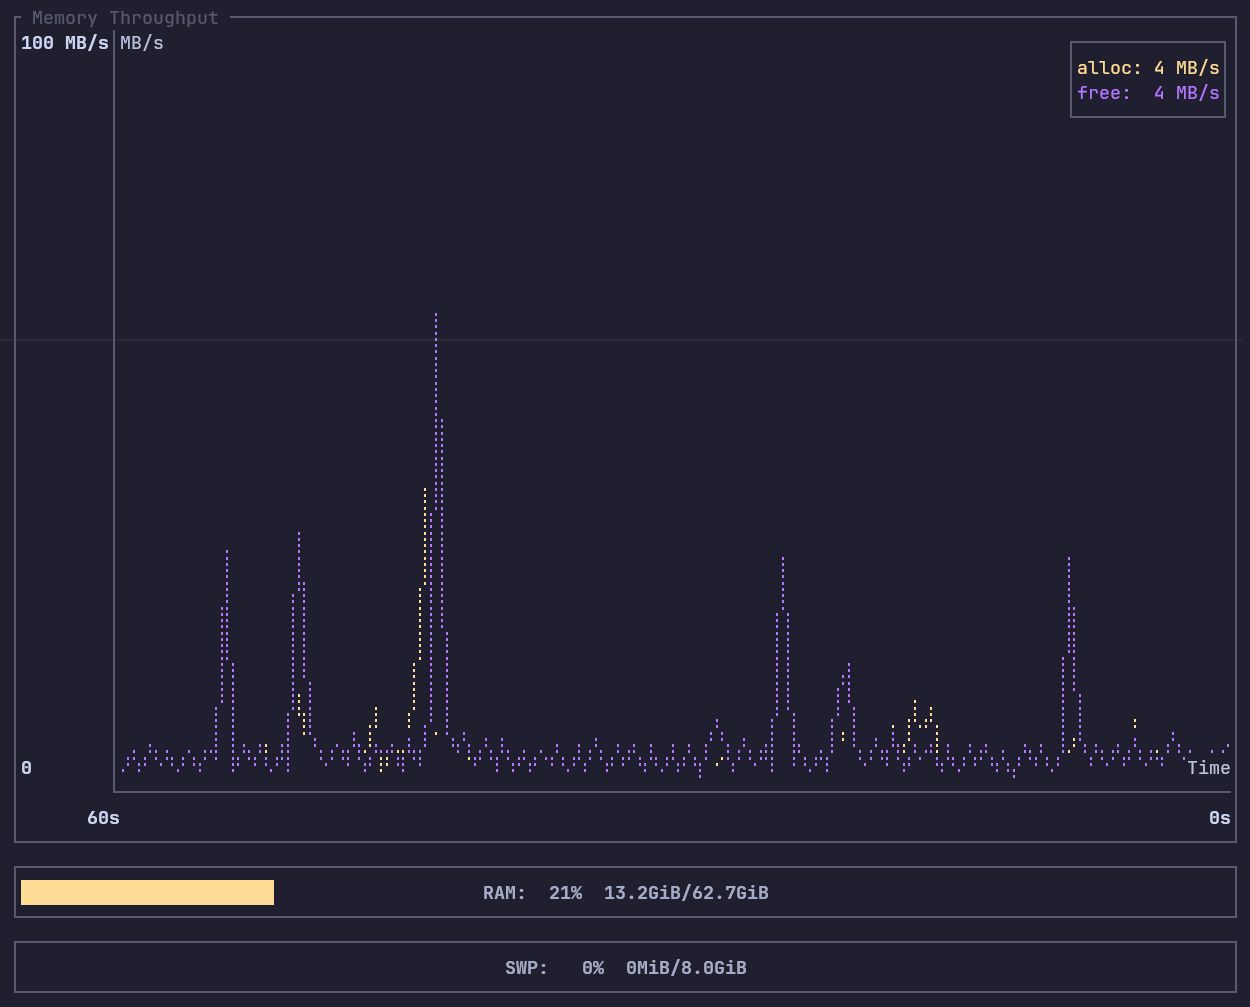
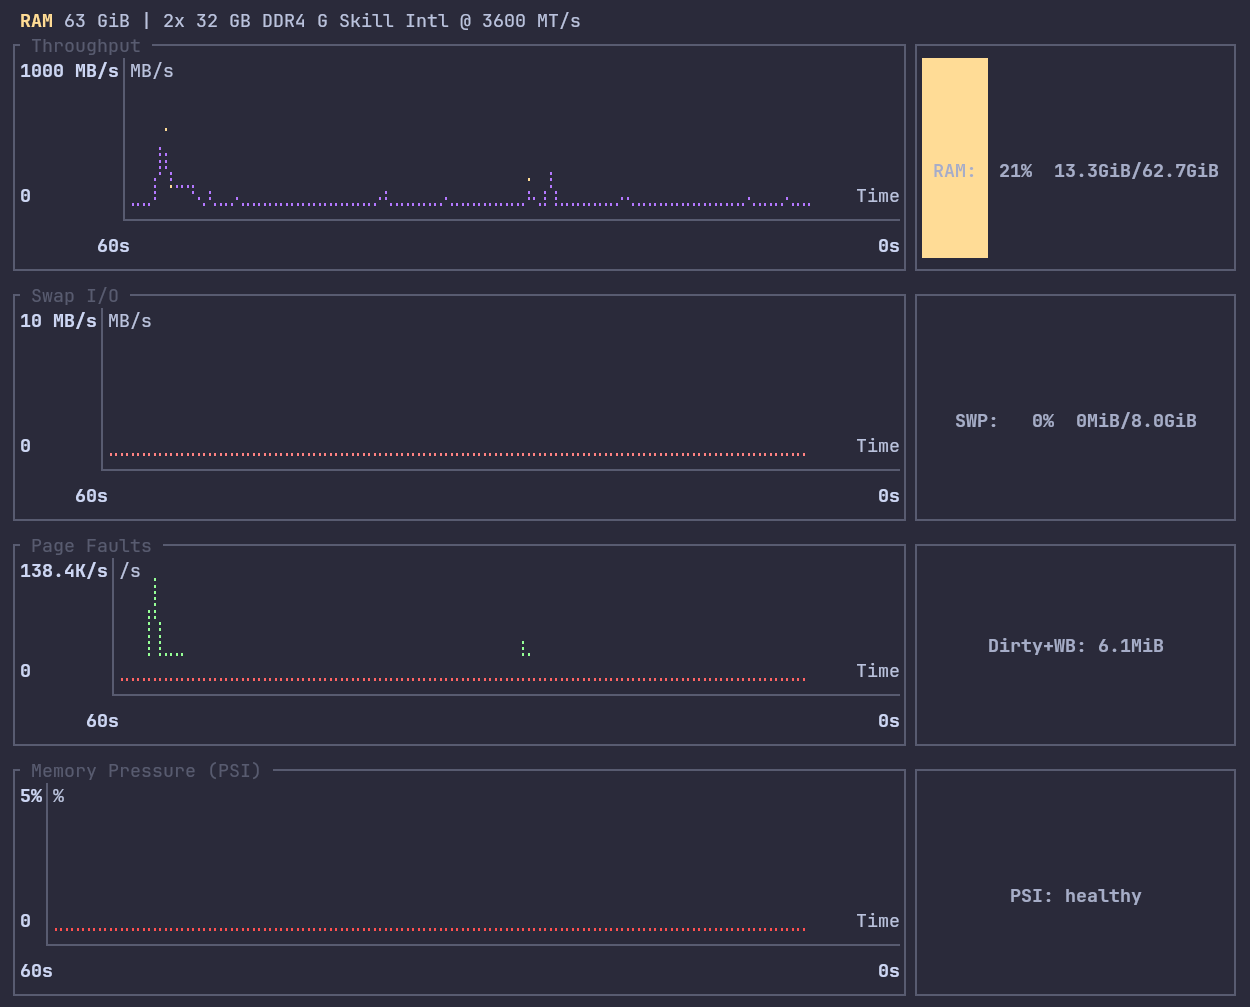
Update README with security notice for sudo usage and new screenshot
Covers supply chain risk, privilege scope, audit suggestions, and
a manual alternative to avoid sudo entirely. Expanded disclaimer
to explicitly cover elevated privilege scenarios.

diff --git a/README.md b/README.md
@@ -2,13 +2,17 @@
 
 Real-time RAM and swap monitor for Linux with terminal charts.
 
-Reads `/proc/meminfo` and `/proc/vmstat` to display live memory throughput (page alloc/free rates) and usage gauges in the terminal using [ratatui](https://github.com/ratatui/ratatui).
+Reads `/proc/meminfo`, `/proc/vmstat`, and `/proc/pressure/memory` to display live memory metrics in the terminal using [ratatui](https://github.com/ratatui/ratatui).
 
 ![ram screenshot](screenshot.png)
 
 ## Features
 
-- Memory throughput chart (alloc/free MB/s) with auto-scaled Y-axis
+- **Throughput**: page alloc/free rates (MB/s) with auto-scaled Y-axis
+- **Swap I/O**: swap in/out rates (MB/s)
+- **Page Faults**: minor/major fault rates with dirty/writeback gauge
+- **Memory Pressure (PSI)**: kernel stall percentages with health summary
+- **Hardware header**: DIMM make, model, type, and speed
 - RAM and swap usage gauge bars with used/total labels
 - Configurable refresh rate and scrollback window
 - `q`, `Esc`, or `Ctrl+C` to quit
@@ -33,9 +37,36 @@ ram -r 1000          # 1s refresh
 ram -s 120           # 2 min scrollback (default 60s)
 ```
 
+### Hardware info (optional)
+
+To display DIMM details (manufacturer, type, speed) in the header, run once:
+
+```
+sudo ram --refresh-hardware
+```
+
+This caches the output of `dmidecode` to `~/.cache/ram/hardware.txt`. Run it again if you change your memory sticks. Normal usage (`ram` without sudo) reads the cache and never needs elevated privileges.
+
+## Security notice: running with sudo
+
+`--refresh-hardware` is the **only** reason to run this tool with sudo. When you do, be aware:
+
+- **The entire binary runs as root.** There is no privilege separation — the `dmidecode` call, all Rust code, and every transitive dependency execute with full root access.
+- **Supply chain risk.** This project depends on third-party crates (ratatui, crossterm, clap, dirs, anyhow). A compromised dependency update could execute arbitrary code as root on your machine. This is not a theoretical risk — supply chain attacks on package registries (npm, PyPI, crates.io) are [increasingly common](https://blog.phylum.io/the-state-of-software-supply-chain-security/).
+- **You should audit what you run.** Before running `sudo ram --refresh-hardware`, consider:
+  - Review `Cargo.lock` to verify dependency versions
+  - Build from source rather than running a downloaded binary
+  - Run it in a VM or container if you want isolation
+  - Check that dependency versions haven't been yanked or flagged on [crates.io](https://crates.io)
+- **Alternatives to sudo.** If you'd rather not elevate at all, you can populate the cache manually:
+  ```
+  sudo dmidecode -t memory > ~/.cache/ram/hardware.txt
+  ```
+  The tool will still run without it — you just won't see DIMM details in the header.
+
 ## Disclaimer
 
-This software was generated with the assistance of AI (Claude, Anthropic). It is provided **as-is**, with **no warranty of any kind**, express or implied. The author(s) accept **no responsibility or liability** for any damage, data loss, or other issues arising from its use. Use entirely at your own risk. You are solely responsible for reviewing the code and determining its suitability for your environment before running it.
+This software was generated with the assistance of AI (Claude, Anthropic). It is provided **as-is**, with **no warranty of any kind**, express or implied, including but not limited to the warranties of merchantability, fitness for a particular purpose, and noninfringement. The author(s) accept **no responsibility or liability** for any damage, data loss, security incidents, or other issues arising from its use, including but not limited to issues caused by running this software with elevated (root/sudo) privileges. Use entirely at your own risk. You are solely responsible for reviewing the code and all dependencies, and for determining their suitability and safety for your environment before running them.
 
 ## License
 
